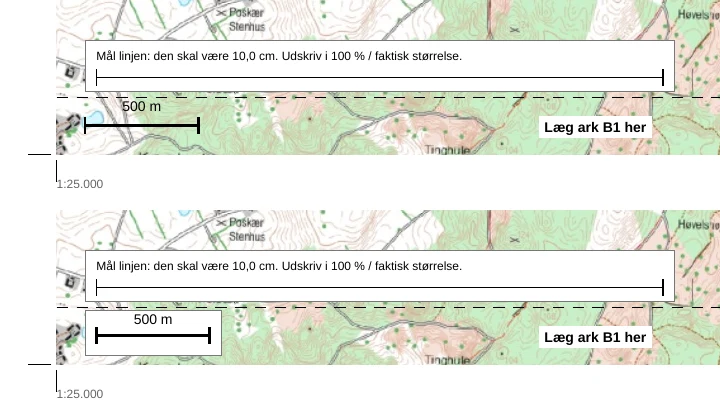
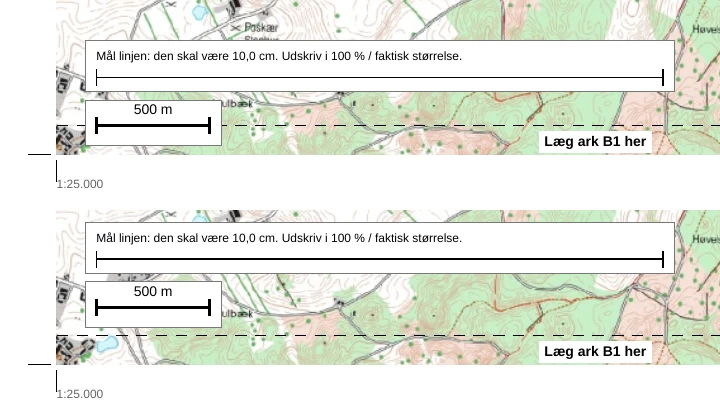
Hold PDF-målestokken fri af samlingslinjen
Flyt begge bokse over overlappet på ark med en nabo nedenunder.
Dæk samlingslinjen og boksens tegnerækkefølge med regressionstests.

Changed region(s): [[0.0611, 0.4952, 1.0, 0.8667], [0.0611, 0.0, 1.0, 0.3714], [0.0917, 0.0, 0.1222, 0.031]]

diff --git a/src/lib/pdf/__tests__/controlLine.test.ts b/src/lib/pdf/__tests__/controlLine.test.ts
@@ -91,9 +91,14 @@ describe("control line", () => {
           const contentPdf = newPdf(format, orientation).pdf;
           const rect = vi.spyOn(contentPdf, "rect");
           const fillColor = vi.spyOn(contentPdf, "setFillColor");
+          const line = vi.spyOn(contentPdf, "line");
+          const label = vi.spyOn(contentPdf, "text");
           const bar = recordBox(contentPdf, () => drawScaleBar(contentPdf, layout, scale));
           expect(rect).toHaveBeenCalledExactlyOnceWith(bar.x1, bar.y1, expect.any(Number), expect.any(Number), "FD");
           expect(fillColor).toHaveBeenCalledWith(255, 255, 255);
+          for (const order of [...line.mock.invocationCallOrder, ...label.mock.invocationCallOrder]) {
+            expect(rect.mock.invocationCallOrder[0]).toBeLessThan(order);
+          }
 
           const { left, top, right, bottom } = declinationBoxRect(layout);
           for (const other of [control, arrow, arrowRotated, { x1: left, y1: top, x2: right, y2: bottom }]) {
@@ -145,8 +150,8 @@ describe("generatePdf output", () => {
     HTMLAnchorElement.prototype.click = () => {};
   });
 
-  async function generate(multiPage: boolean) {
-    usePrintStore.setState({ multiPage, gridCols: 2, gridRows: 1, overlapMm: 10 });
+  async function generate(multiPage: boolean, gridRows = 1, overlapMm = 10) {
+    usePrintStore.setState({ multiPage, gridCols: 2, gridRows, overlapMm });
     await generatePdf({
       bounds: { west: 10, east: 10.1, south: 56, north: 56.1 },
       scale: 25000, paperFormat: "A4", orientation: "portrait", dpi: 150,
@@ -167,6 +172,32 @@ describe("generatePdf output", () => {
     const { file, texts } = await generate(true);
     expect(file).toContain("/PrintScaling /None");
     expect(texts).toHaveLength(2);
+  });
+
+  it.each([5, 15])("keeps both left-hand boxes above the bottom assembly line with %i mm overlap", async (overlapMm) => {
+    usePrintStore.setState({ showScaleBar: true });
+    const { file } = await generate(true, 2, overlapMm);
+    const { layout } = newPdf("A4", "portrait");
+    const ptPerMm = 72 / 25.4;
+    const boxX = (layout.marginMm + 5) * ptPerMm;
+    const mapBottom = (layout.pageHeightMm - layout.marginMm - layout.mapHeightMm) * ptPerMm;
+    const assemblyY = mapBottom + overlapMm * ptPerMm;
+    const sheets = [...file.matchAll(/\bstream\r?\n([^]*?)\r?\nendstream/g)]
+      .map(([, stream]) => stream)
+      .filter((stream) => stream.includes("(Ark "));
+    expect(sheets).toHaveLength(4);
+
+    for (const [index, sheet] of sheets.entries()) {
+      const boxBottoms = [...sheet.matchAll(/^([\d.]+) ([\d.]+) [\d.]+ (-[\d.]+) re\r?\nB$/gm)]
+        .filter(([, x]) => Math.abs(Number(x) - boxX) < 0.01)
+        .map(([, , top, height]) => Number(top) + Number(height));
+      expect(boxBottoms).toHaveLength(2);
+      if (index < 2) {
+        for (const bottom of boxBottoms) expect(bottom).toBeGreaterThan(assemblyY);
+      } else {
+        expect(Math.min(...boxBottoms)).toBeCloseTo(mapBottom + 1.5 * ptPerMm, 2);
+      }
+    }
   });
 
   it.each([false, true])("emits a scale box only when enabled without a base map (multi-page: %s)", async (multiPage) => {

diff --git a/src/lib/pdf/generator.ts b/src/lib/pdf/generator.ts
@@ -210,7 +210,8 @@ export async function generatePdf({
 export function drawScaleBar(
   pdf: jsPDF,
   layout: { marginMm: number; mapWidthMm: number; mapHeightMm: number; pageHeightMm: number },
-  scale: number
+  scale: number,
+  bottomInsetMm = 0
 ) {
   // Calculate a "nice" distance for the scale bar
   const barWidthMm = 40; // target bar width on paper
@@ -228,7 +229,7 @@ export function drawScaleBar(
   const pad = 2;
   const centerX = boxX + pad + width / 2;
   const x = centerX - actualBarMm / 2;
-  const y = layout.marginMm + layout.mapHeightMm - 5;
+  const y = layout.marginMm + layout.mapHeightMm - 5 - bottomInsetMm;
 
   drawPrintBox(pdf, boxX, y - 4.5, width + 2 * pad, 8);
 
@@ -821,12 +822,15 @@ async function generateMultiPagePdf({
         opts.reserveTopLeftMm = pageLabelMm;
         gridInfo = { ...gridInfoBase(opts, cell.bounds), spacing: drawUtmGrid(pdf, layout, cell.bounds, scale, opts) };
       }
+      const neighbours = sheetNeighbours(cell, gridCols, gridRows);
       // After the grid, so the white box keeps grid lines off the hint.
-      drawAssemblyMarks(pdf, layout, sheetNeighbours(cell, gridCols, gridRows), overlapMm);
+      drawAssemblyMarks(pdf, layout, neighbours, overlapMm);
 
-      if (printState.showScaleBar ?? (baseLayer !== "none")) drawScaleBar(pdf, layout, scale);
+      // Keep the stacked boxes above the dashed line and out of the covered strip.
+      const bottomInsetMm = neighbours.bottom ? overlapMm : 0;
+      if (printState.showScaleBar ?? (baseLayer !== "none")) drawScaleBar(pdf, layout, scale, bottomInsetMm);
       if (printState.showNorthArrow ?? (baseLayer !== "none")) drawNorthArrow(pdf, layout, bearing);
-      drawControlLine(pdf, layout);
+      drawControlLine(pdf, layout, bottomInsetMm);
 
       const sheetPlace = { region, bounds: cell.bounds };
       drawAttribution(pdf, layout, scale, gridInfo, undefined, mapDataCredit(baseLayer, sheetPlace));

diff --git a/src/lib/pdf/controlLine.ts b/src/lib/pdf/controlLine.ts
@@ -23,10 +23,11 @@ export interface ControlLineGeometry {
 /** Pure placement of the control line; `textWidthMm` is the width of CONTROL_LINE_TEXT at 6 pt. */
 export function controlLineGeometry(
   layout: Pick<PdfLayout, "marginMm" | "mapHeightMm">,
-  textWidthMm: number
+  textWidthMm: number,
+  bottomInsetMm = 0
 ): ControlLineGeometry {
   const x = layout.marginMm + LEFT_OFFSET_MM;
-  const bottom = layout.marginMm + layout.mapHeightMm - BOTTOM_OFFSET_MM;
+  const bottom = layout.marginMm + layout.mapHeightMm - BOTTOM_OFFSET_MM - bottomInsetMm;
   const top = bottom - BOX_HEIGHT_MM;
   const lineY = top + 6.5;
   const lineX1 = x + PAD_MM;
@@ -45,10 +46,14 @@ export function drawPrintBox(pdf: jsPDF, x: number, y: number, w: number, h: num
   pdf.rect(x, y, w, h, "FD");
 }
 
-export function drawControlLine(pdf: jsPDF, layout: Pick<PdfLayout, "marginMm" | "mapHeightMm">): void {
+export function drawControlLine(
+  pdf: jsPDF,
+  layout: Pick<PdfLayout, "marginMm" | "mapHeightMm">,
+  bottomInsetMm = 0
+): void {
   pdf.setFontSize(TEXT_PT);
   pdf.setFont("helvetica", "normal");
-  const g = controlLineGeometry(layout, pdf.getTextWidth(CONTROL_LINE_TEXT));
+  const g = controlLineGeometry(layout, pdf.getTextWidth(CONTROL_LINE_TEXT), bottomInsetMm);
 
   drawPrintBox(pdf, g.box.x, g.box.y, g.box.w, g.box.h);
 

diff --git a/README.md b/README.md
@@ -156,6 +156,7 @@ src/
   resolution (up to 300 dpi), waits for every tile, and adds the image to jsPDF
   with grid, scale bar, north arrow, declination diagram and credits. The scale
   bar and print calibration line have matching white boxes for legibility.
+  On sheets with a neighbour below, both boxes sit above the overlap strip.
   Nothing is rendered on the server.
 - **Search:** addresses come from Adressevælger. Place names are searched in our
   own `/api/stednavne` over a snapshot of Danske Stednavne
